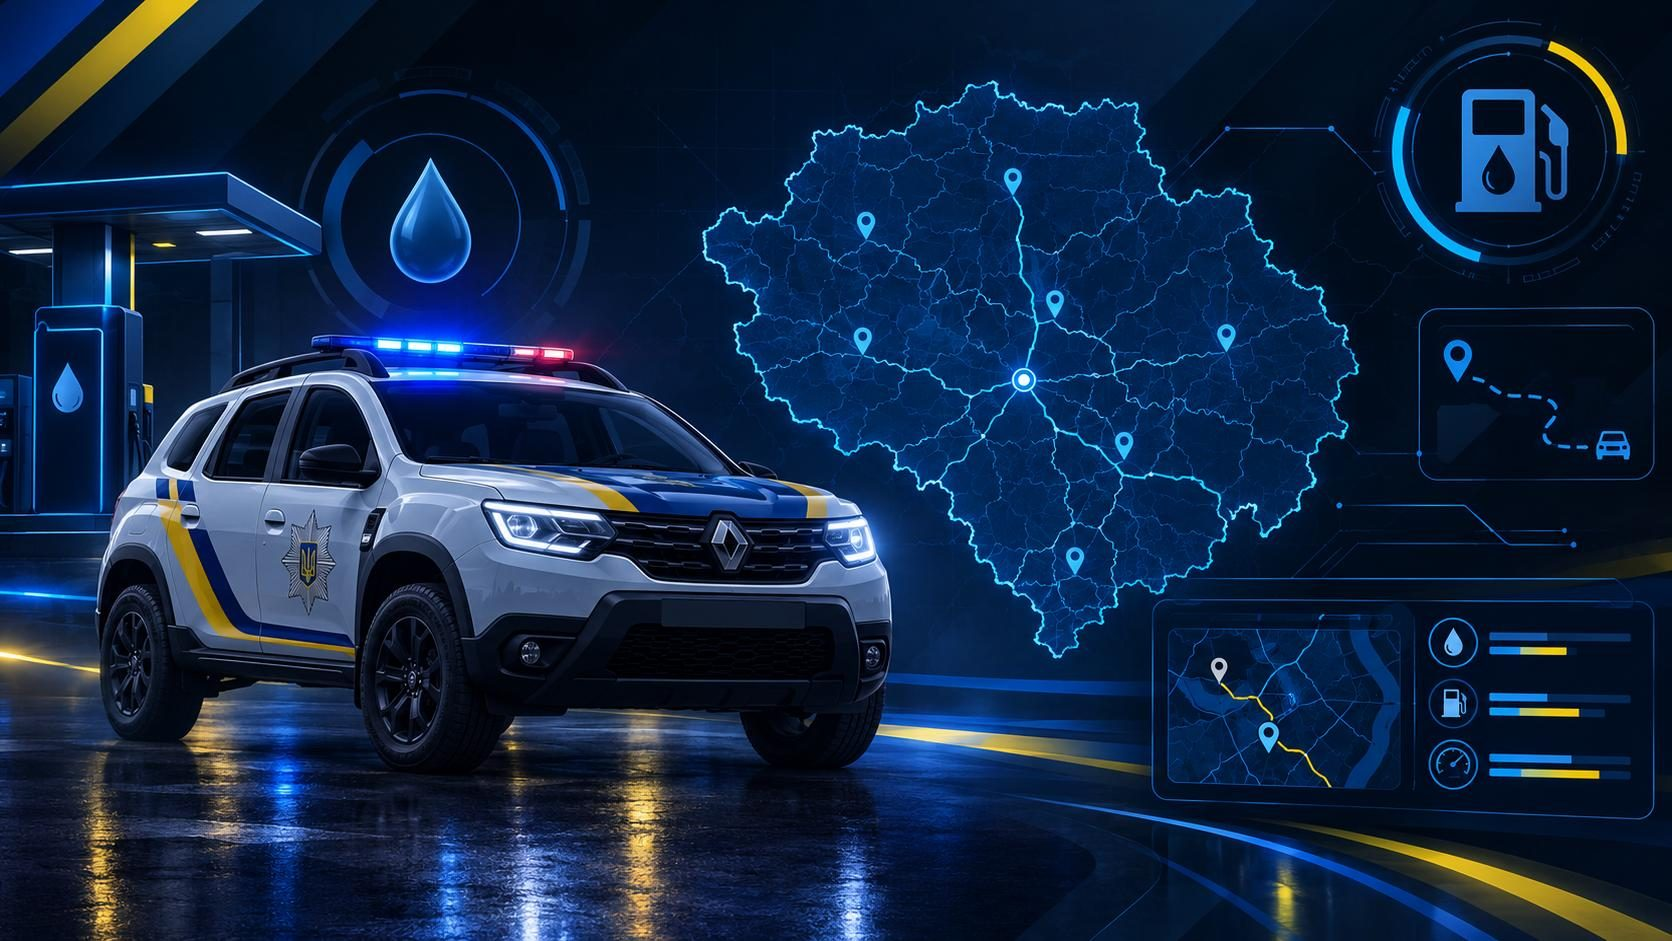
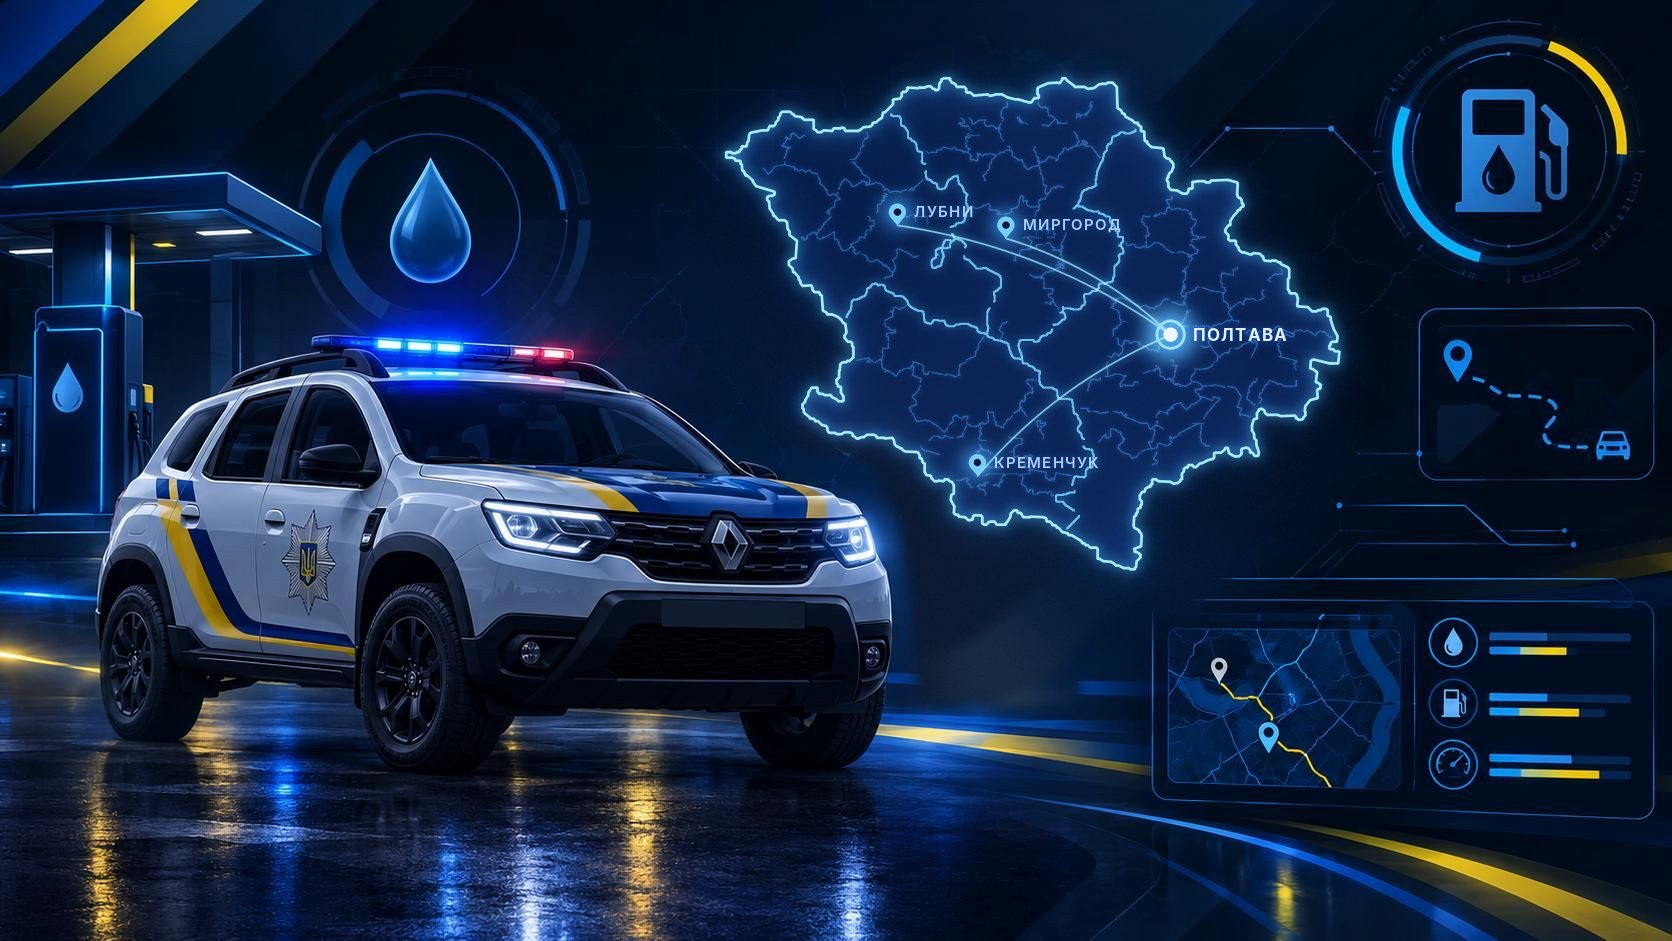
Портал пального: на фоні — реальна карта Полтавщини, прибрано девіз під плитками
Claude-Session: https://claude.ai/code/session_01GpwED5gdZ3DZyF4jYgg34J

Changed region(s): [[0.4043, 0.0616, 0.8086, 0.7396]]

diff --git a/palyvo/js/app.js b/palyvo/js/app.js
@@ -1,11 +1,11 @@
 // Портал «Списання пального для МВО» — односторінковий застосунок (GitHub Pages + Firebase).
-import * as C from "./core.js?v=20261024d";
-import * as U from "./ui.js?v=20261024d";
-import { litresWords } from "./words.js?v=20261024d";
-import { buildRegister, buildAct } from "./docs.js?v=20261024d";
-import { FIREBASE_CONFIG, ADMIN_EMAIL } from "./config.js?v=20261024d";
-import * as X from "./crypto.js?v=20261024d";
-import { qrSvg } from "../vendor/qrcode.js?v=20261024d";
+import * as C from "./core.js?v=20261024e";
+import * as U from "./ui.js?v=20261024e";
+import { litresWords } from "./words.js?v=20261024e";
+import { buildRegister, buildAct } from "./docs.js?v=20261024e";
+import { FIREBASE_CONFIG, ADMIN_EMAIL } from "./config.js?v=20261024e";
+import * as X from "./crypto.js?v=20261024e";
+import { qrSvg } from "../vendor/qrcode.js?v=20261024e";
 
 const $app = document.getElementById("app");
 const esc = U.esc;
@@ -87,7 +87,6 @@ function shell(content, { nav = true } = {}) {
     ${nav && me && me.status === "active" ? `<nav class="tiles">
       ${tab("entry", "💧", "Введення даних")}${tab("report", "📋", "Звіт і акти")}${tab("fleet", "🚙", "Автопарк і реквізити")}${tab("archive", "📁", "Архів")}
       ${isAdmin() ? tab("admin", "🛡", "Адміністрування", pending) : ""}</nav>` : ""}
-    <div class="motto">Контроль <i>/</i> Прозорість <i>/</i> Ефективність</div>
   </div></header>
   <main class="wrap">${state.flash ? `<div class="flash ${state.flash[0]}">${esc(state.flash[1])}</div>` : ""}${content}</main>`;
   state.flash = null;
@@ -1106,8 +1105,8 @@ async function onAuthChanged(user) {
 // ============================================================ старт
 (async () => {
   try {
-    if (DEMO) store = (await import("./store-mock.js?v=20261024d")).createStore();
-    else if (FIREBASE_CONFIG && FIREBASE_CONFIG.apiKey) store = (await import("./store-firebase.js?v=20261024d")).createStore(FIREBASE_CONFIG);
+    if (DEMO) store = (await import("./store-mock.js?v=20261024e")).createStore();
+    else if (FIREBASE_CONFIG && FIREBASE_CONFIG.apiKey) store = (await import("./store-firebase.js?v=20261024e")).createStore(FIREBASE_CONFIG);
   } catch (err) {
     $app.innerHTML = `<div class="wrap"><div class="panel"><h2>Не вдалося завантажити портал</h2><p>${esc(err.message)}</p></div></div>`;
     return;

diff --git a/palyvo/index.html b/palyvo/index.html
@@ -7,7 +7,7 @@
 <meta name="robots" content="noindex, nofollow">
 <meta name="color-scheme" content="dark">
 <link rel="icon" href="img/hub_icon_small.png">
-<link rel="stylesheet" href="css/style.css?v=20261024d">
+<link rel="stylesheet" href="css/style.css?v=20261024e">
 <style>
   body.busy { cursor: progress; }
   body.busy main { opacity: .75; transition: opacity .2s; }
@@ -17,11 +17,11 @@
 </style>
 </head>
 <body>
-<img class="page-bg" src="img/page_bg.jpg?v=20261024d" alt="" aria-hidden="true">
+<img class="page-bg" src="img/page_bg.jpg?v=20261024e" alt="" aria-hidden="true">
 <div class="page-veil"></div>
 <div id="app"><div id="boot">Завантаження порталу…</div></div>
 <noscript>Для роботи порталу потрібен JavaScript.</noscript>
-<script src="vendor/docx.iife.js?v=20261024d"></script>
-<script type="module" src="js/app.js?v=20261024d"></script>
+<script src="vendor/docx.iife.js?v=20261024e"></script>
+<script type="module" src="js/app.js?v=20261024e"></script>
 </body>
 </html>

diff --git a/palyvo/js/docs.js b/palyvo/js/docs.js
@@ -1,7 +1,7 @@
 // Формування Word: реєстр «Додаток 6» (A4 альбомно) і акт списання (типова форма № З-2, A4 книжково).
 // Перенесено з export_docx.py / export_act.py. D — простір імен бібліотеки docx (window.docx або require("docx")).
-import * as C from "./core.js?v=20261024d";
-import { litresWords } from "./words.js?v=20261024d";
+import * as C from "./core.js?v=20261024e";
+import { litresWords } from "./words.js?v=20261024e";
 
 const FONT = "Times New Roman";
 const cm = (x) => Math.round(x * 567);      // см → twips

diff --git a/palyvo/js/ui.js b/palyvo/js/ui.js
@@ -1,5 +1,5 @@
 // HTML-фрагменти карток, KPI і попереднього перегляду (перенесено з ui.py).
-import * as C from "./core.js?v=20261024d";
+import * as C from "./core.js?v=20261024e";
 
 export const esc = (s) => String(s ?? "").replace(/[&<>"']/g, (c) => ({ "&": "&amp;", "<": "&lt;", ">": "&gt;", '"': "&quot;", "'": "&#39;" }[c]));
 
